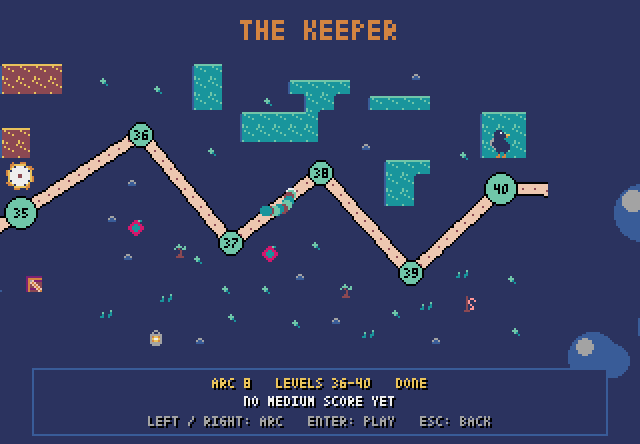
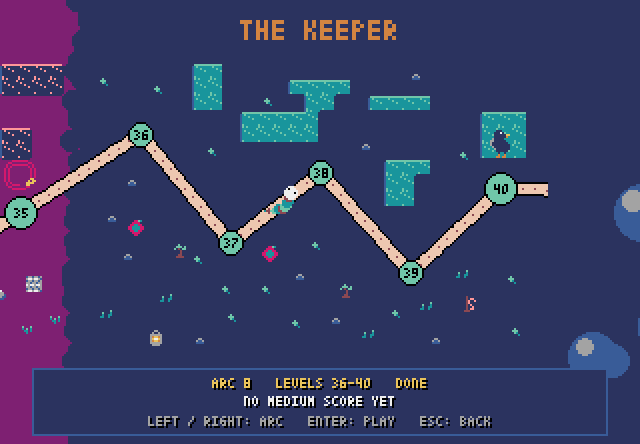
The snake gets a face: eyes, a flicking tongue, blinking, a tapered tail
Drawing only (collisions keep using `size`): the last TAPER segments thin to
a point, the head is a pixel bigger with eyes (Palette.eyes) that blink and
a forked tongue that flicks, both on the snake's own clock so seeded bot
runs stay the same. Details go on top in a second pass as segments overlap:
an optional gloss along the back (Palette.gloss, off everywhere for now)
and, to try out, the ammo as a stripe down the spine in the weapon's colour
(every weapon has a COL now). The rival and the menu snakes look the same.
The README's montage and screenshots are rendered again.

Claude-Session: https://claude.ai/code/session_01LUdTxwpY5K8tk1bzHwPxmo

Changed region(s): [[0.0, 0.0, 0.125, 1.0], [0.4062, 0.4099, 0.4688, 0.4977]]

diff --git a/src/snake_quest/snake.py b/src/snake_quest/snake.py
@@ -21,6 +21,13 @@ SPAWN_DELAY = datetime.timedelta(microseconds=300)
 TURN_SPEED = 9  # degrees per frame at full steering
 NECK = 3.0  # px along the body from the head that it can't bite: 3 segments at any normal speed, more while
 # slowed (webs), when the segments lie closer
+# its looks (drawing only: collisions use `size` everywhere)
+TAPER = 6  # tail segments drawn thinner (radius 1, the last two a single pixel), on snakes longer than twice that
+TONGUE_EVERY, TONGUE_OUT = 2.4, 0.3  # seconds: the tongue flicks out for TONGUE_OUT once every TONGUE_EVERY
+BLINK_EVERY, BLINK = 3.7, 0.15  # seconds: the eyes shut for BLINK once every BLINK_EVERY
+AMMO_BAND = 12  # at most this many segments behind the head show a spine in the weapon's colour, one per shot left
+COL_TONGUE, COL_LID = 8, 13
+LIGHT = {0: 5, 1: 5, 2: 14, 3: 11, 4: 9, 5: 12, 6: 7, 7: 7, 8: 14, 9: 10, 10: 7, 11: 7, 12: 6, 13: 7, 14: 15, 15: 7}
 
 
 class SnakeSeg:
@@ -74,6 +81,7 @@ class Snake:
         self.weapon: Weapon | None = None  # see weapons.py; picked up in the level
         self.controller: Controller = controller or Controller()  # the default one goes straight
         self.turn_speed = turn_speed
+        self.clock = 0.0  # seconds it has lived, for the tongue and the blinking (no random numbers: bots replay)
 
     def __len__(self):
         return len(self.segs)
@@ -118,13 +126,55 @@ class Snake:
         self.orient = (self.orient + val) % 360
 
     def draw(self, offset: Vec2):
-        """Draw every segment, shifted by the camera's `offset`."""
-        for seg in self.segs:
-            seg.draw(offset)
+        """Draw the snake shifted by the camera's `offset`: the body from the tail up (tapering to a point, the ammo
+        as a stripe down the spine behind the head), then the head with its eyes and, now and then, its tongue."""
+        n = len(self.segs)
+        for index in range(n - 1, 0, -1):
+            seg = self.segs[index]
+            if seg.key is not None:
+                seg.draw(offset)
+                continue
+            radius = self.size
+            if n > 2 * TAPER and index >= n - TAPER:
+                radius = 0 if index >= n - 2 else 1
+            pyxel.circ(seg.pos.x + offset.x, seg.pos.y + offset.y, radius, seg.col)
+        # details on top, as the segments overlap: the gloss along the back, the ammo down the spine
+        band = min(self.weapon.ammo, AMMO_BAND) if self.weapon is not None else 0
+        for index in range(1, n - TAPER if n > 2 * TAPER else n):
+            seg = self.segs[index]
+            if seg.key is not None:
+                continue
+            x, y = seg.pos.x + offset.x, seg.pos.y + offset.y
+            if self.colors.gloss:
+                ahead = self.segs[index - 1].pos - seg.pos
+                length = ahead.length() or 1
+                pyxel.pset(x + ahead.y / length * 1.2 - 0.3, y - ahead.x / length * 1.2 - 0.3, LIGHT[seg.col])
+            if index <= band:  # a segment a shot
+                pyxel.pset(x, y, self.weapon.COL)
+        self._draw_head(offset)
+
+    def _draw_head(self, offset: Vec2) -> None:
+        """A head one pixel bigger than the body, its eyes to either side of where it points (shut while it
+        blinks), and the forked tongue while it flicks."""
+        x, y = self.head.pos.x + offset.x, self.head.pos.y + offset.y
+        dx, dy = pyxel.cos(self.orient), pyxel.sin(self.orient)
+        radius = self.size + 1
+        if self.clock % TONGUE_EVERY < TONGUE_OUT:
+            tip_x, tip_y = x + dx * (radius + 4), y + dy * (radius + 4)
+            pyxel.line(x + dx * (radius + 1), y + dy * (radius + 1), tip_x, tip_y, COL_TONGUE)
+            for side in (-1, 1):
+                pyxel.pset(tip_x + dx + dy * side, tip_y + dy - dx * side, COL_TONGUE)
+        pyxel.circ(x, y, radius, self.head.col)
+        if self.colors.gloss:
+            pyxel.pset(x + dy * 1.5 - 0.5, y - dx * 1.5 - 0.5, LIGHT[self.head.col])
+        eyes = COL_LID if self.clock % BLINK_EVERY < BLINK else self.colors.eyes
+        for side in (-1, 1):
+            pyxel.pset(x + dx * 1.2 + dy * side * 1.6, y + dy * 1.2 - dx * side * 1.6, eyes)
 
     def update(self, dt: datetime.timedelta, map: "Map"):
         """One frame: steer (through the controller, the other way on mirrored floor), drift on ice and with the
         planets' pull, move (or stall at a crate), grow or shrink one segment and let the weapon fire."""
+        self.clock += dt.total_seconds()
         self.boost_left = max(self.boost_left - dt.total_seconds(), 0.0)
         # steer
         steering = self.controller.steer(self, map)

diff --git a/src/snake_quest/weapons.py b/src/snake_quest/weapons.py
@@ -136,6 +136,7 @@ class Weapon(ABC):
 
     name: ClassVar[str]  # upper case, shown in the HUD
     COOLDOWN: ClassVar[float]  # seconds between shots
+    COL: ClassVar[int] = 7  # its shots' colour, and the ammo band's on the snake (see Snake.draw)
 
     def __init__(self, ammo: int, hostile: bool = False):
         self.ammo = ammo
@@ -366,6 +367,7 @@ class Tractor(Weapon):
 
     name = "TRACTOR"
     COOLDOWN = TractorBeam.PULSE
+    COL = TractorBeam.COL
     PULLS = True  # bots fire it when a pickup is in its cone
 
     def release(self, snake, map):
@@ -380,6 +382,7 @@ class Mines(Weapon):
 
     name = "MINES"
     COOLDOWN = 0.6
+    COL = 13
     DROPS = True  # bots drop them when something is on the snake's trail, instead of aiming
 
     def release(self, snake, map):

diff --git a/src/snake_quest/palettes.py b/src/snake_quest/palettes.py
@@ -9,7 +9,9 @@ class Palette:
 
     name: str
     head: int
-    body: tuple[int, ...]  # repeated along the body, segment by segment
+    body: tuple[int, ...]  # repeated along the body, segment by segment: also makes the patterns (bands, diamonds)
+    eyes: int = 0  # light ones on a dark head
+    gloss: bool = False  # a lighter pixel along the back of every segment
 
 
 PALETTES: dict[str, Palette] = {

diff --git a/CLAUDE.md b/CLAUDE.md
@@ -81,7 +81,7 @@ Tiles with a fixed meaning live in the tile registry `tiles.py`: `TILE_KINDS` ma
 
 **Entities (`entity.py`).** Subclass `Entity`, set `_img_x/_img_y` to the sprite tile and override `on_intersect` (snake head touches it), `update` and optionally `hit`. Then register it with `@register("name")`: that puts it in `ENTITY_NAMES` so level files (timers, goals) can refer to it, and in `ENTITY_TILES` (sprite tile → class) so tilemaps can place it. Duplicate names or sprite tiles raise. Weapon pickups are `WeaponPickup` subclasses naming their `WEAPON` class: the same kind adds `AMMO`, another kind replaces the weapon carried (`gun` (2, 11), `spread` (2, 13)). Pickups so far: `Apple` (+5 length, respawns), `GoldenApple` (+20 length, +5 points), `SpeedApple` (no length, +1 point, `snake.boost(1.5, 5 s)`: `effective_speed` is used for movement, a new boost replaces the running one, and the HUD shows it), `Firefly` (hovers, drifts towards a passing snake; eating one reveals the breadcrumbs for `LIGHT_SECONDS` = 20 s, after which they fade out over `CRUMBS_FADE` s, and another firefly relights them from where it is eaten). `Critter` (arc 2, (3, 11), not hostile): grazes until the head comes within `FLEE` px, then runs to the neighbouring tile farthest from the head (`map.flight(snake)`: walking distances from the head, shared like `map.chase`) for a random `RUN`, then catches its `BREATH`; on harder difficulties it runs longer and rests less (`helpful` factor). Eaten: `LENGTH` segments, `POINTS` points. Hostile so far: `Hunter` (arc 2, sprites (0, 11) awake and (1, 11) eyes closed): a state machine in `state`. Asleep until the snake comes within `WAKE` px or its random `NAP` is over; then it hunts the tail faster than the snake (`SPEED`, following `map.chase(snake)`: walking distances from the tail, refreshed every `CHASE_EVERY` s and shared by all hunters) for a random `HUNT` time, then rests (eyes closed, `PAUSE`) or takes a detour to a spot `DETOUR_REACH` tiles away (`DETOUR`, `DETOUR_SPEED`), and hunts again. Rest and detour times scale with the difficulty's `hostile` factor, speeds with its `speed`. A bite on the body cuts `CHUNK` segments off the tail and makes it retreat for `RETREAT` s; a bite the snake is too short for, or the head running into an awake hunter, sets `map.snake_killed`. `Nest` (arc 2, (4, 11), hostile, `HEALTH` 2): while the head is within `ALERT` px it sends out a hunting beetle every `SPAWN` s (times the `hostile` factor) while fewer than `BROOD` of its own are alive; it flashes when hit, and running into it is the end. `Turret` (arc 3, (0, 13), glowing eye (1, 13), `HEALTH` 3): while the head is within `RANGE` px and in sight (`map.clear_line`), it turns to it and every `RELOAD` s (times the `hostile` factor) fires a slow hostile shot where the head is heading (`intercept`: turning dodges it), its eye glowing for `WARN` s before. `Drone` (arc 3, (6, 13)): flies over walls (never out of the level) straight for the head, turning at most `TURN` degrees per frame, so it overshoots and loops; touching any segment it stings (`STING` segments, and it is gone without counting as defeated). `Crawler` (arc 3, (7, 13)): a `Hunter` that hunts at once and without breaks, slower than the snake, with `HEALTH` 3. `Knight` (arc 7, (11, 13)): a `Hunter` in armour (`armored`), slower than the snake, with `HEALTH` 2; it flashes when hit and glints when a shot glances off. Arc 4's entities live in `caves.py` (imported at the end of entity.py, so they register too): `Crystal` ((2, 15), glowing, `collect_all`), `Mushroom` ((10, 15), only a light), `Spider` ((0, 15), crawls along the walls (`_ledge` tiles), spins a web every `SPIN` s, at most `WEBS` of its own; crawling into the body it bites `BITE` segments off, head first into it is the end), `Mole` ((3, 15) mound, (4, 15) up: underground it moves through rock to random spots and digs a tunnel five tiles wide (`SPADE`, at most `DIG_LIMIT` tiles), every `SURFACE` s it comes up for `UP` s away from the snake; only then can it be shot or touched: `exposed` (shots and bot aims skip entities that aren't) and `avoid` are properties), `Bat` ((5, 15) asleep, (6, 15) flying: wakes when any light falls on it, flutters at the head and bites `BITE` segments, flees burning flares within `SCARE` px, goes back to its roost after `ROOST` s in the dark; `avoid = False` like drones), `Burning` (a flare come to rest: light 48 for `BURN` s, burns webs and egg sacs it lies against) and the boss's `BroodMother`, `EggSac` and `Spiderling`. Arc 6's are in `space.py`: `AirTank` ((0, 17), refills the `oxygen` goal by its `tank` share), `Star` ((1, 17), `collect_all`), `Planet` ((10, 17), 16x16: pulls the heading of what flies near, `mass / distance²` degrees per frame (times the level's `gravity`), at most `MAX_PULL`, within `REACH`; its surface is a crash; `solid`), `Asteroid` ((6, 17) large, (4, 17) medium, (3, 17) small: drifts and bounces off walls, a shot breaks it into two of the next size (`pieces`, which the map adds when it clears the dead), the head meeting a large or medium one is the end, otherwise it cuts) and the Mothership's `Mothership`, `EnginePod` and `Raider`. Arc 5's are in `workshop.py`: `Crate`, the keys, `Mouse` ((6, 21), a `Hunter` that goes for the key nearest the tail, `quarry()`, and bites the body off where it bites; thorns break it), `MouseHole` ((7, 22), a `Nest` of mice) and the `Clockwork`. Pickups the Tractor can pull have `pullable`. `Mine` (arc 3, (5, 13)): dropped by the Mines weapon, armed after `ARM` s, it goes off when a hostile entity comes within `TRIGGER` px and deals `DAMAGE` to every hostile entity within `BLAST` px (sound `boom`); it never hurts the snake, fizzles after `FUSE` s and, like anything with `tally = False`, counts neither as defeated nor as eaten. Spawn timers can send a wave (`count:` entities at once, each at its own spot), keep out of `clear:` circles (`[[x, y, radius]]` in world px, e.g. no turrets at the exit) and can keep new entities `away:` px from the head (`map.new_pos(away=...)`) and tune them for the level with `with: {SPEED: 1.1}` (settings the class has). The bot (`PathController.threats`) keeps `THREAT` px (growing along an arc) from awake and `SLEEPER` px from sleeping hostile entities, more from bigger ones, and `BODY` px from every other segment of a rival snake's body, except those with `avoid = False` (drones: a sting costs less than swerving around a swarm). Entities are removed by setting `alive = False`. `Map.update` drops dead entities, timers and projectiles at the start of the next update.
 
-**Snake (`snake.py`) and input (`controls.py`).** Every frame `snake.update()` first asks its `controller` (default: `Controller()`, which goes straight and never fires): `steer(snake, map)` returns -1..1 and is multiplied by `snake.turn_speed` (`TURN_SPEED` = 9 degrees per frame), and `fire(snake, map)` triggers the weapon. The player's snake gets a `KeyboardController` (arrows / d-pad, space) in `RunningStateHandler`, the menu's demo snake a `ChaseController` (steers towards `target(snake, map)`, or straight when that is None), and tests use `ScriptedController` (one steering value per frame). Snake code must never read `pyxel.btn` itself; bots, winnability tests and the rival snake all go through this interface (`test_a_bot_can_play_a_level`). `PathController(target)` is the level-playing bot: every frame it tries five steering values held for `HORIZON` frames, drops arcs that hit a wall (the same two points as `utils.collision_points`, which the game tests) or its body or that leave no escape (`ESCAPE` frames), and takes the one that passes over the target, else the one ending closest to it. Distances come from a breadth-first search from the target over `CELL` (4 px) cells, recomputed every `FIELD_EVERY` frames: walls block, and so do body cells (inflated by one cell, so it avoids gaps too narrow to steer through) unless the tail will have left them by the time the head gets there; portals are shortcuts. Arcs that leave the target inside their turning circle get `ORBIT_PENALTY` (otherwise it orbits targets until it bites itself). A `LONG` snake also needs room (`_room`), else it follows its tail. `mode` says why it steered (goal, tail, escape, crash). `nearest(Apple, ...)` makes a target function that skips entities right next to a wall while others exist. `tests/test_winnable.py` lets it beat the levels in `bot.LEVELS` (Classic and The Hunger; Yummy's 250 points are beyond it) (first win of a few seeds); after changing a level's balance, run it (and try more seeds to see the win rate). In the Keeper's levels `bot.play` leaves the snake to its pet and sets a `HandBot` (or, `hand=False`, nobody) as the hand's player; `test_the_garden_needs_its_keeper` (slow) checks that the pet left alone loses. The arcs go through portals like the head does. The head moves along `orient` (degrees, Pyxel's `cos`/`sin`), and each segment takes the previous position of the one ahead of it. `grow > 0` appends segments one at a time with a delay. `grow < 0` cuts `|grow|` segments every frame for as long as it stays negative (intended), and raises `RuntimeError("Dead")` once the snake is shorter than that. Collisions with walls and entities test two points from `get_collision_points()`, not the whole circle. **Weapons (`weapons.py`).** `snake.weapon` (at most one) comes from a pickup: `GunPickup` (entity `gun`) gives a `Gun` with `AMMO` shots or adds them to the one carried; the HUD shows `GUN n` before the length. Every frame `snake.update()` calls `weapon.update(snake, map, fire=controller.fire(...), seconds)`: with ammo and the `COOLDOWN` over it adds `shots(snake)` to `map.projectiles` (sound `shoot`). A `Projectile` flies straight and dies after `LIFETIME`, at a wall, outside the map or on hitting a hostile entity (`hit(dmg)`, a hunter has 1 health, kills count in `map.defeated`); it never hits the snake or pickups. Hostile shots (`Projectile(hostile=True)`, from turrets) hit only the snake: `snake.wound(index)` cuts it at the segment struck (`segment_at`), but never more than half of it (a shot from the front still hits the body just behind a dodging head); a hit on the head costs half the body, and a snake too short for that dies. Ramming a turret wrecks it for half the snake as well. `Spread` (a `Gun` subclass) fires a fan of three, `FAN` degrees apart; `Ricochet` (`ricochet` (3, 13)) a shot that bounces off `BOUNCES` walls (`Projectile(bounces=...)`) and flies longer; `Mines` (`mines` (4, 13), `DROPS`) has no projectiles: its `release()` puts a `Mine` behind the tail. `Laser` (`laser` (10, 13), `PIERCE`) fires a fast, short beam (`Projectile(pierce=True)`, drawn as a streak) that goes through armour and on through everything it hits (each entity once, `struck`). Entities with `armored` (the `Knight`) only take piercing shots: others glance off (`deflect()`, a glint) and are gone. Shots faster than `STEP` px per frame test the points between too, so the beam can't skip over an entity. `Homing` (`homing` (12, 13)) fires slower shots that turn `TURN` degrees per frame towards the nearest hostile entity within `HOMING_RANGE` they can hurt (`Projectile(homing=...)`); its `FAN` makes bots fire with rough aim. `Flare` (`flare` (7, 15)) fires a slow, short `FlareShot` that becomes a `Burning` light where it comes to rest. `Tractor` (`tractor` (2, 17), `PULLS`) is no gun: each press sends out a `TractorBeam` for `PULSE` s that draws the nearest `pullable` pickup within `RANGE` px and `CONE` degrees ahead in to the head. A new weapon is a `Weapon` subclass with `name`, `COOLDOWN` and `shots()`. The bot shoots (`PathController.fire`) at the nearest hostile entity in range, within `AIM` degrees and with no wall between, and turns to face one that is about ahead, or resting or asleep behind it (mode `aim`); `bot.target` first follows a level's plan (`works.plan`, see the Workshop), then goes for what a `collect_all` goal asks for, then for an exit once all other goals are done (`ExitGoal.tiles`); while a length or score goal is open and no goal asks for kills (defeat, destroy_all, a boss), it only eats; without ammo it fetches a weapon, while short it stocks `STOCK` shots (pickups of the weapon it carries only: another kind would replace it) and eats, and once long enough it hunts (the boss's `target()` first, then what a `destroy_all` goal names, then any hostile entity but turrets, which it only shoots when they come into its line of fire; armoured ones only with a weapon that pierces, which is also all it aims at them: `nearest(exclude=...)` leaves out subclasses). Its way-finding treats thorns as walls (`THORNS`; arcs may still cross them), and a cave-in's cracked floor too. While a boss offers nothing to shoot (`target()` is None) it stocks up on ammo. With an `oxygen` goal below `AIR` it fetches an air tank first; with the Tractor it only eats (and fires it when a pickup is in its cone). Entities that are `solid` (planets) are kept just clear of (`SOLID` px from their `RADIUS`, no growth along the arc, unlike threats), and airlock doors about to shut (`map.closing`) are walls to its way-finding. Its arcs simulate the level's grip (`map.grip_at`) and the planets' pull (`map.pull`, which `snake.update` applies too: it turns where the snake points and where it moves). Arcs also keep `DODGE` px from where hostile shots will be, and simulate drifting on ice. It turns to aim at what it hunts and at anything moving at any range, at hostile entities that never move (no `state`: turrets, nests) only within `DEFENCE` px. Turning to aim stops after `AIM_PATIENCE` frames for as long (an aim that never lines up would circle forever), and pickups within `WARY` px of a hostile entity (`nearest(wary=...)`) are left for last. With a weapon that `DROPS` it never aims: it eats (leading what follows over its mines) and drops one whenever a hostile entity is within `TRAIL` px of the tail.
+**Snake (`snake.py`) and input (`controls.py`).** Every frame `snake.update()` first asks its `controller` (default: `Controller()`, which goes straight and never fires): `steer(snake, map)` returns -1..1 and is multiplied by `snake.turn_speed` (`TURN_SPEED` = 9 degrees per frame), and `fire(snake, map)` triggers the weapon. The player's snake gets a `KeyboardController` (arrows / d-pad, space) in `RunningStateHandler`, the menu's demo snake a `ChaseController` (steers towards `target(snake, map)`, or straight when that is None), and tests use `ScriptedController` (one steering value per frame). Snake code must never read `pyxel.btn` itself; bots, winnability tests and the rival snake all go through this interface (`test_a_bot_can_play_a_level`). `PathController(target)` is the level-playing bot: every frame it tries five steering values held for `HORIZON` frames, drops arcs that hit a wall (the same two points as `utils.collision_points`, which the game tests) or its body or that leave no escape (`ESCAPE` frames), and takes the one that passes over the target, else the one ending closest to it. Distances come from a breadth-first search from the target over `CELL` (4 px) cells, recomputed every `FIELD_EVERY` frames: walls block, and so do body cells (inflated by one cell, so it avoids gaps too narrow to steer through) unless the tail will have left them by the time the head gets there; portals are shortcuts. Arcs that leave the target inside their turning circle get `ORBIT_PENALTY` (otherwise it orbits targets until it bites itself). A `LONG` snake also needs room (`_room`), else it follows its tail. `mode` says why it steered (goal, tail, escape, crash). `nearest(Apple, ...)` makes a target function that skips entities right next to a wall while others exist. `tests/test_winnable.py` lets it beat the levels in `bot.LEVELS` (Classic and The Hunger; Yummy's 250 points are beyond it) (first win of a few seeds); after changing a level's balance, run it (and try more seeds to see the win rate). In the Keeper's levels `bot.play` leaves the snake to its pet and sets a `HandBot` (or, `hand=False`, nobody) as the hand's player; `test_the_garden_needs_its_keeper` (slow) checks that the pet left alone loses. The arcs go through portals like the head does. The head moves along `orient` (degrees, Pyxel's `cos`/`sin`), and each segment takes the previous position of the one ahead of it. `grow > 0` appends segments one at a time with a delay. `grow < 0` cuts `|grow|` segments every frame for as long as it stays negative (intended), and raises `RuntimeError("Dead")` once the snake is shorter than that. Collisions with walls and entities test two points from `get_collision_points()`, not the whole circle. Its looks are drawing only (`Snake.draw`; collisions keep using `size`): the body from the tail up, its last `TAPER` segments thinner, then a head one pixel bigger with eyes (`Palette.eyes`, light ones on a dark head) that blink every `BLINK_EVERY` s and a forked tongue that flicks out every `TONGUE_EVERY` s, both timed by `snake.clock` (never `pyxel.rnd*`, which would change the seeded bot runs); details go on top in a second pass, as the segments overlap: an optional gloss pixel along the back (`Palette.gloss`, `LIGHT` shades) and the ammo as a stripe down the spine, one segment a shot in the weapon's `COL`, at most `AMMO_BAND`. Patterns are palettes too: `Palette.body` is repeated along the body, so longer lists make bands, diamonds or rings; avoid colour 0 in them, the floor's. **Weapons (`weapons.py`).** `snake.weapon` (at most one) comes from a pickup: `GunPickup` (entity `gun`) gives a `Gun` with `AMMO` shots or adds them to the one carried; the HUD shows `GUN n` before the length. Every frame `snake.update()` calls `weapon.update(snake, map, fire=controller.fire(...), seconds)`: with ammo and the `COOLDOWN` over it adds `shots(snake)` to `map.projectiles` (sound `shoot`). A `Projectile` flies straight and dies after `LIFETIME`, at a wall, outside the map or on hitting a hostile entity (`hit(dmg)`, a hunter has 1 health, kills count in `map.defeated`); it never hits the snake or pickups. Hostile shots (`Projectile(hostile=True)`, from turrets) hit only the snake: `snake.wound(index)` cuts it at the segment struck (`segment_at`), but never more than half of it (a shot from the front still hits the body just behind a dodging head); a hit on the head costs half the body, and a snake too short for that dies. Ramming a turret wrecks it for half the snake as well. `Spread` (a `Gun` subclass) fires a fan of three, `FAN` degrees apart; `Ricochet` (`ricochet` (3, 13)) a shot that bounces off `BOUNCES` walls (`Projectile(bounces=...)`) and flies longer; `Mines` (`mines` (4, 13), `DROPS`) has no projectiles: its `release()` puts a `Mine` behind the tail. `Laser` (`laser` (10, 13), `PIERCE`) fires a fast, short beam (`Projectile(pierce=True)`, drawn as a streak) that goes through armour and on through everything it hits (each entity once, `struck`). Entities with `armored` (the `Knight`) only take piercing shots: others glance off (`deflect()`, a glint) and are gone. Shots faster than `STEP` px per frame test the points between too, so the beam can't skip over an entity. `Homing` (`homing` (12, 13)) fires slower shots that turn `TURN` degrees per frame towards the nearest hostile entity within `HOMING_RANGE` they can hurt (`Projectile(homing=...)`); its `FAN` makes bots fire with rough aim. `Flare` (`flare` (7, 15)) fires a slow, short `FlareShot` that becomes a `Burning` light where it comes to rest. `Tractor` (`tractor` (2, 17), `PULLS`) is no gun: each press sends out a `TractorBeam` for `PULSE` s that draws the nearest `pullable` pickup within `RANGE` px and `CONE` degrees ahead in to the head. A new weapon is a `Weapon` subclass with `name`, `COOLDOWN` and `shots()`. The bot shoots (`PathController.fire`) at the nearest hostile entity in range, within `AIM` degrees and with no wall between, and turns to face one that is about ahead, or resting or asleep behind it (mode `aim`); `bot.target` first follows a level's plan (`works.plan`, see the Workshop), then goes for what a `collect_all` goal asks for, then for an exit once all other goals are done (`ExitGoal.tiles`); while a length or score goal is open and no goal asks for kills (defeat, destroy_all, a boss), it only eats; without ammo it fetches a weapon, while short it stocks `STOCK` shots (pickups of the weapon it carries only: another kind would replace it) and eats, and once long enough it hunts (the boss's `target()` first, then what a `destroy_all` goal names, then any hostile entity but turrets, which it only shoots when they come into its line of fire; armoured ones only with a weapon that pierces, which is also all it aims at them: `nearest(exclude=...)` leaves out subclasses). Its way-finding treats thorns as walls (`THORNS`; arcs may still cross them), and a cave-in's cracked floor too. While a boss offers nothing to shoot (`target()` is None) it stocks up on ammo. With an `oxygen` goal below `AIR` it fetches an air tank first; with the Tractor it only eats (and fires it when a pickup is in its cone). Entities that are `solid` (planets) are kept just clear of (`SOLID` px from their `RADIUS`, no growth along the arc, unlike threats), and airlock doors about to shut (`map.closing`) are walls to its way-finding. Its arcs simulate the level's grip (`map.grip_at`) and the planets' pull (`map.pull`, which `snake.update` applies too: it turns where the snake points and where it moves). Arcs also keep `DODGE` px from where hostile shots will be, and simulate drifting on ice. It turns to aim at what it hunts and at anything moving at any range, at hostile entities that never move (no `state`: turrets, nests) only within `DEFENCE` px. Turning to aim stops after `AIM_PATIENCE` frames for as long (an aim that never lines up would circle forever), and pickups within `WARY` px of a hostile entity (`nearest(wary=...)`) are left for last. With a weapon that `DROPS` it never aims: it eats (leading what follows over its mines) and drops one whenever a hostile entity is within `TRAIL` px of the tail.
 
 **UI (`widget.py`).** `Widget` sizes itself automatically from text lines and an optional `ImgInfo` sprite. `add_sub_widget` makes child coordinates relative to the parent. `Button` handles hover, click and an optional hotkey in `update()`. `LifeBar` fills `val` (0–1) of its width with `fg` over `bg`.
 
